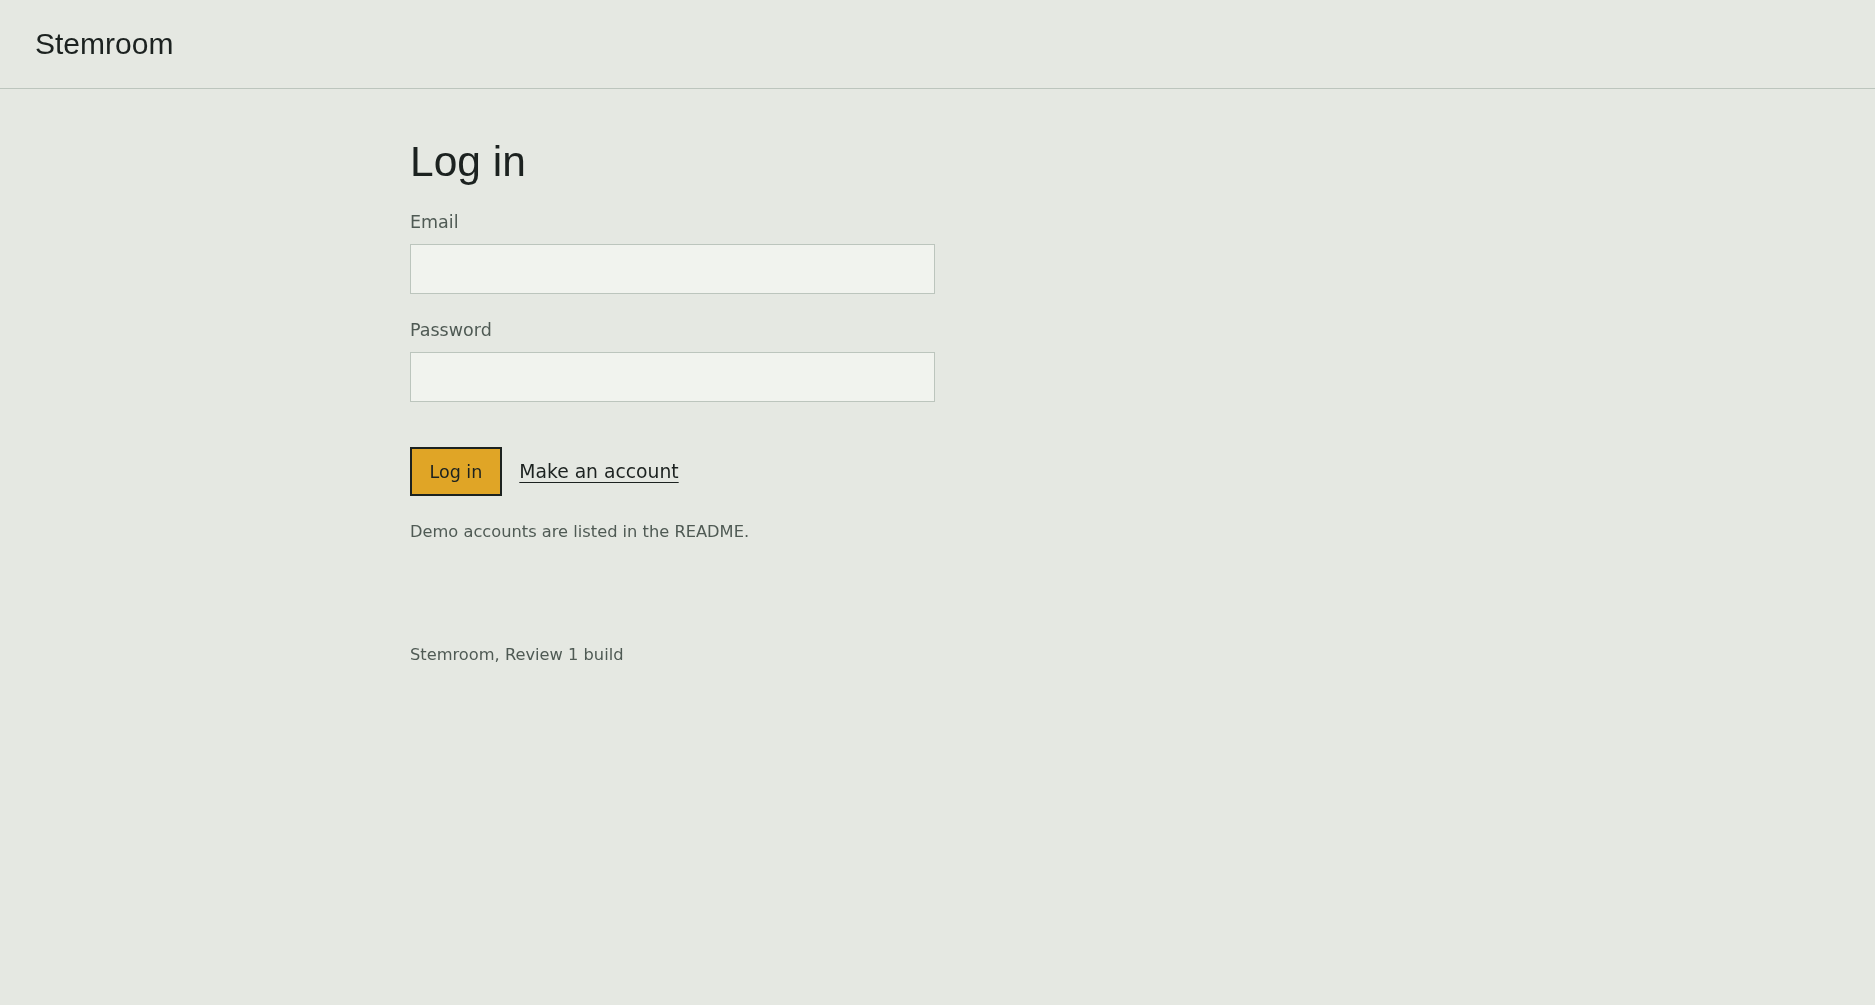
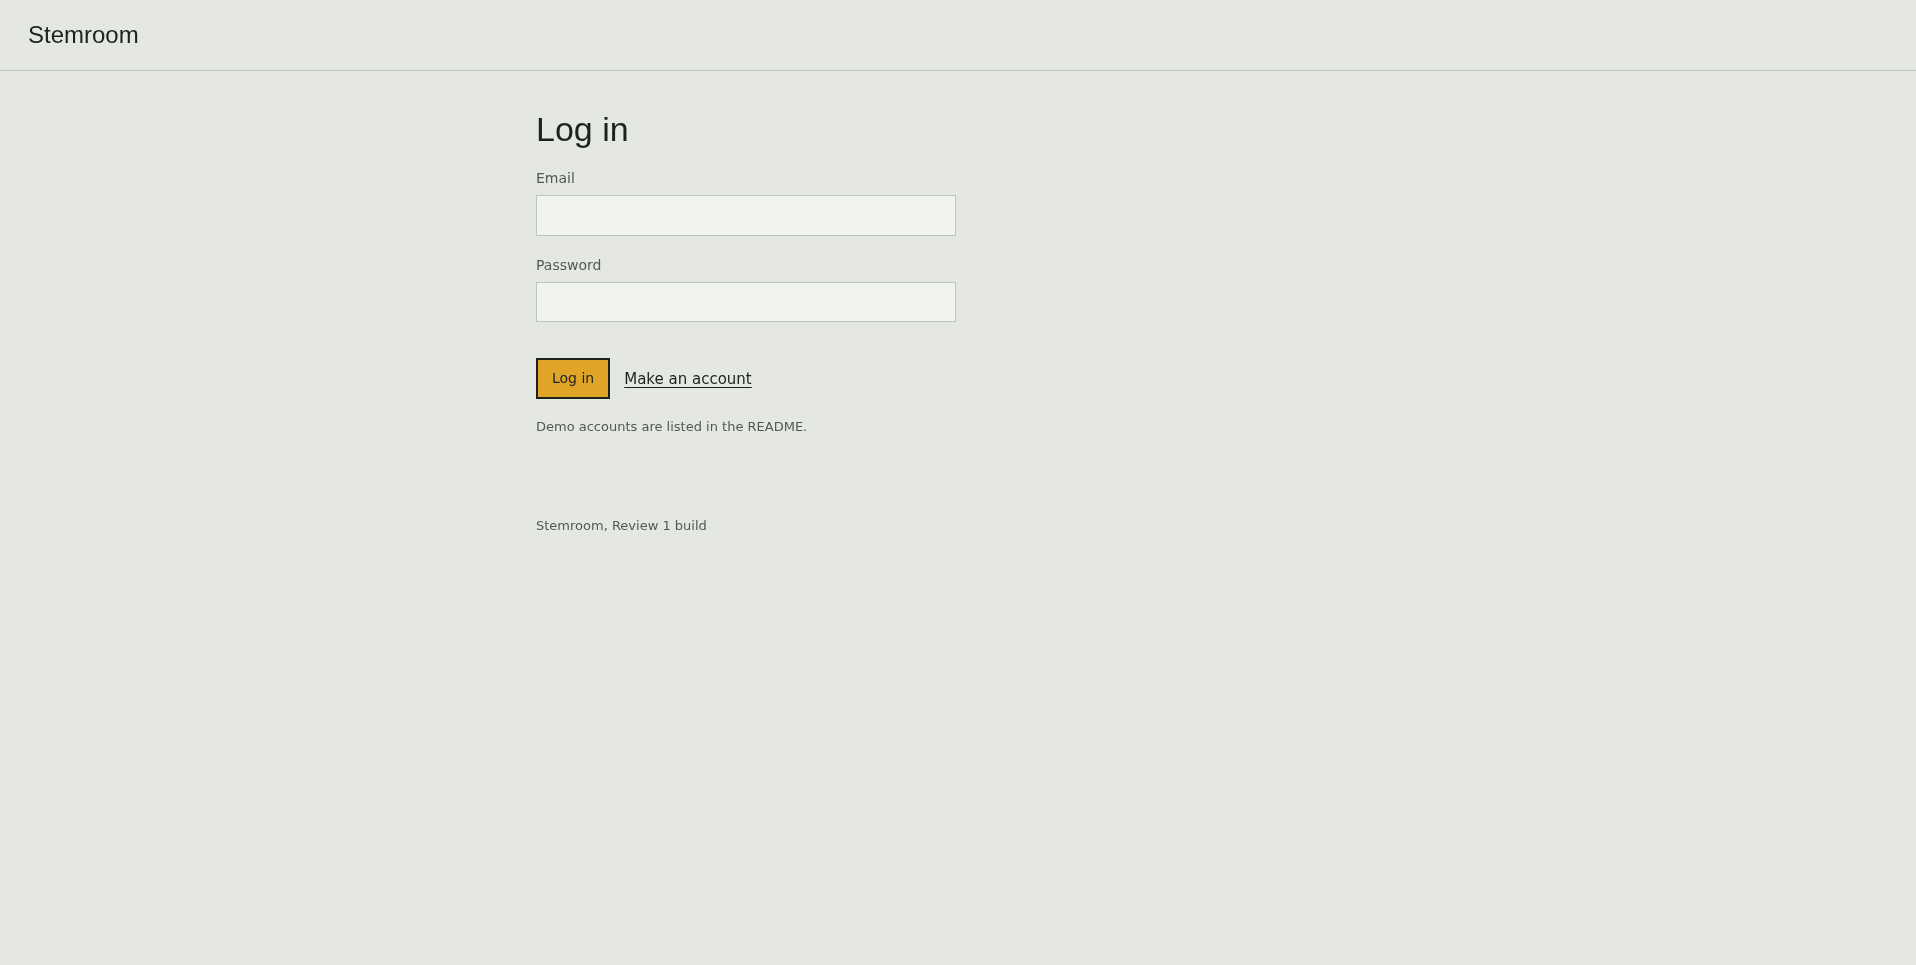
docs: update README with complete clean UI screenshots

diff --git a/README.md b/README.md
@@ -79,6 +79,35 @@ Admins can:
 - approve or reject songs
 - turn sign-ups on or off and set how many projects a musician may own
 
+## Screenshots
+
+### Authentication & Access
+| Log In | Make an Account |
+| :---: | :---: |
+| <img src="docs/screenshots/01-login.png" alt="Log In" width="460"> | <img src="docs/screenshots/02-register.png" alt="Register" width="460"> |
+
+### Musician Workspace
+| Home Dashboard | Projects List |
+| :---: | :---: |
+| <img src="docs/screenshots/03-musician-dashboard.png" alt="Musician Dashboard" width="460"> | <img src="docs/screenshots/04-projects-list.png" alt="Projects List" width="460"> |
+
+| Project Collaboration Details | Create New Project |
+| :---: | :---: |
+| <img src="docs/screenshots/05-project-detail.png" alt="Project Details" width="460"> | <img src="docs/screenshots/06-project-new.png" alt="New Project" width="460"> |
+
+| Portfolio & Song Uploads |
+| :---: |
+| <img src="docs/screenshots/07-portfolio.png" alt="Portfolio" width="700"> |
+
+### Admin Governance & Moderation
+| Admin Home Dashboard | Content Moderation Queue |
+| :---: | :---: |
+| <img src="docs/screenshots/08-admin-dashboard.png" alt="Admin Dashboard" width="460"> | <img src="docs/screenshots/09-admin-moderation.png" alt="Content Moderation" width="460"> |
+
+| User Account Management | System Settings |
+| :---: | :---: |
+| <img src="docs/screenshots/10-admin-users.png" alt="User Management" width="460"> | <img src="docs/screenshots/11-admin-settings.png" alt="System Settings" width="460"> |
+
 ## What is left out
 
 Editing a song after upload, playing or downloading audio, sharing songs inside a project, comments, the notification centre and the activity monitor are not in this build. They are planned for Review 2. The reasons are in `docs/REVIEW-1.md`.
